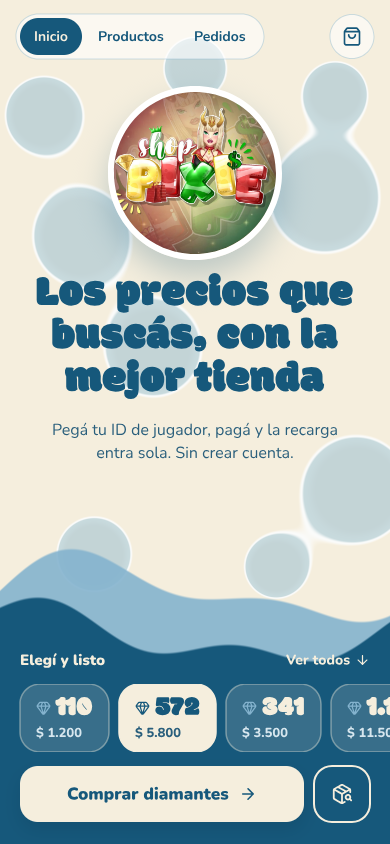
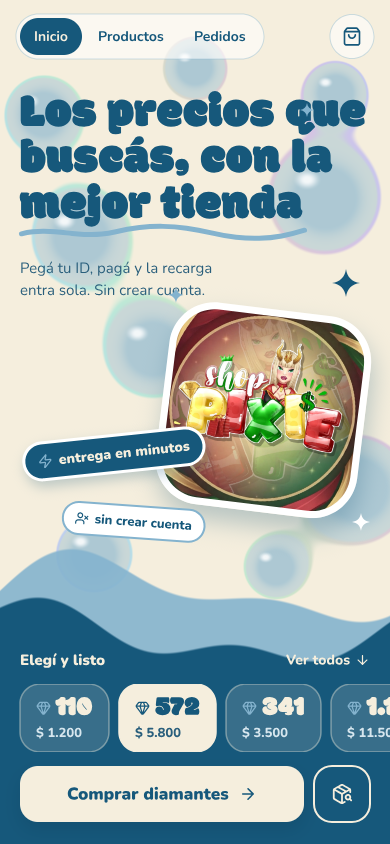
Etapa 1: hero mobile estilo collage sticker + burbujas tipo jabón
Claude-Session: https://claude.ai/code/session_01MHfkMDWNK5g34m7ViMu7eH

diff --git a/CLAUDE.md b/CLAUDE.md
@@ -55,4 +55,4 @@ Antes de resolver algo de pagos o proveedor, leer `../StarPage/CLAUDE.md` y `../
 - Mobile: carrito como bottom sheet + barra de carrito fija abajo. Desktop: drawer a la derecha.
 - Especificación de motion (logo hero→header, aparición progresiva, reduced-motion) en el frame `00 · Sistema de diseño + motion` del .pen.
 - Los datos de reseñas, precios y conteos de las pantallas son de ejemplo, no reales.
-- Hero mobile: fondo animado con shader WebGL `assets/shaders/pixie-bubbles.glsl` (metaballs Rock Blue que se funden + 2 olas, la de abajo Venice Blue). En la Etapa 2 portarlo a un `<canvas>` WebGL detrás del hero (pausar fuera de pantalla y con `prefers-reduced-motion`). Título elegido por el usuario: "Los precios que buscás, con la mejor tienda". No poner "Pixie" gigante en el hero.
+- Hero mobile: fondo animado con shader WebGL `assets/shaders/pixie-bubbles.glsl` (metaballs Rock Blue que se funden + 2 olas, la de abajo Venice Blue). En la Etapa 2 portarlo a un `<canvas>` WebGL detrás del hero (pausar fuera de pantalla y con `prefers-reduced-motion`). Título elegido por el usuario: "Los precios que buscás, con la mejor tienda". No poner "Pixie" gigante ni el logo redondo centrado con título abajo: el hero es un collage estilo sticker/scrapbook (título a la izquierda con subrayado a mano, logo como sticker cuadrado inclinado, stickers y destellos). Burbujas tipo jabón (brillo + borde tornasolado).
